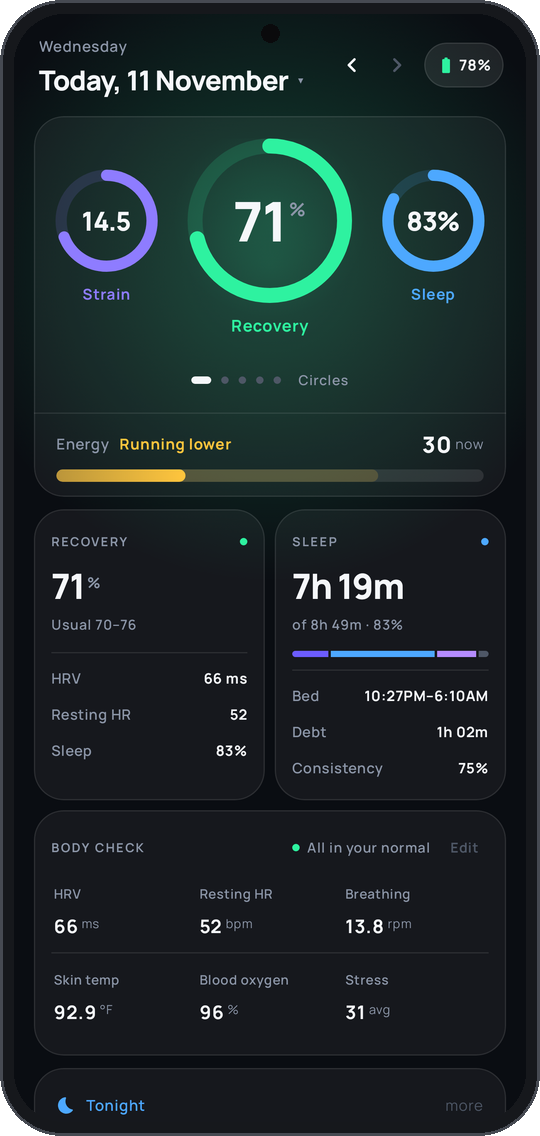
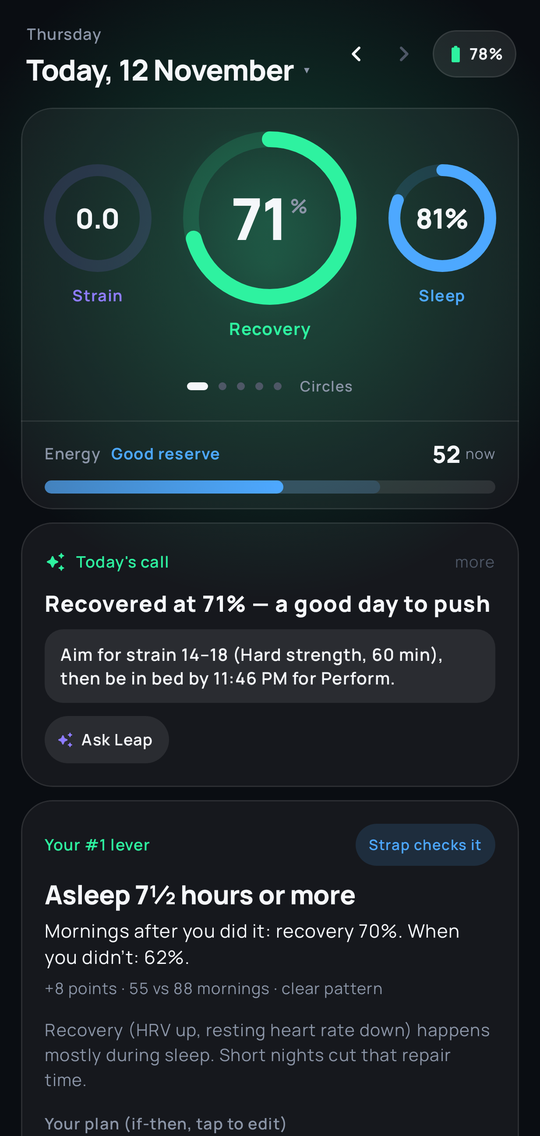
Leap 0.2.0: focus habit, weekly review, lessons

diff --git a/README.md b/README.md
@@ -19,26 +19,35 @@
 | 🔵 **Sleep** | what you slept vs. what you needed, sleep debt, stages, consistency |
 | 🟣 **Strain** 0–21 | minute-by-minute heart rate, plus every workout |
 
+Then it helps you **change one habit at a time**: it finds the habit that moves *your* recovery the most, turns it into a simple plan, checks it each night, and shows you the payoff on your own numbers.
+
 No account. No subscription. No cloud. Leap reads your data on your phone and keeps it there.
 
 <p align="center">
   <img src="docs/screens/today.png" width="24%" alt="Today">
+  <img src="docs/screens/focus_lever.png" width="24%" alt="Your #1 lever">
+  <img src="docs/screens/focus_active.png" width="24%" alt="Focus habit">
   <img src="docs/screens/live_now.png" width="24%" alt="Live heart rate">
-  <img src="docs/screens/calendar_black.png" width="24%" alt="Calendar">
-  <img src="docs/screens/today_calm.png" width="24%" alt="Calm mode">
 </p>
 <p align="center">
+  <img src="docs/screens/today_calm.png" width="24%" alt="Calm mode">
+  <img src="docs/screens/calendar_black.png" width="24%" alt="Calendar">
   <img src="docs/screens/trends.png" width="24%" alt="Trends">
-  <img src="docs/screens/hero_tide.png" width="24%" alt="Energy tide">
-  <img src="docs/screens/strap.png" width="24%" alt="Strap">
   <img src="docs/screens/space_white.png" width="24%" alt="Space white theme">
 </p>
 <p align="center"><sub>Screens show made-up demo data.</sub></p>
 
 ## Features
 
+**Change one habit at a time** (new in 0.2)
+- **Your #1 lever**: Leap compares your own nights and finds what lines up best with a good recovery (for example "asleep 7½ hours or more: 70% vs 58%")
+- **One if-then plan** ("When it's 9:45 PM, I head to bed"), one quiet nudge at that time, and a nightly check. The strap checks sleep habits by itself
+- **The payoff on your numbers**: recovery after the nights you did it vs the nights you didn't
+- **Weekly review**: three strong weeks and the habit "graduates"; a hard week makes the plan smaller, not you a failure. No streaks, no shame: "never miss twice"
+- **1-minute lessons**: what your most unusual number today means, what moves it, and one thing to try
+
 **Every day**
-- **Today**: three rings, a morning brief and one call for the day ("push", "steady" or "recover")
+- **Today**: three rings and one call for the day ("push", "steady" or "recover") with a strain target and a session; if Leap holds you back, it says why
 - **Pick your tiles**: choose which body numbers show (HRV, resting HR, breathing, skin temp, blood oxygen, steps, sleep debt…)
 - **Calm mode**: only your rings and one next step. Built to cut down on compulsive checking
 - **Live heart rate**: a beating bpm pill on every screen while Leap is open, and a Live page with zone, calories per minute, energy and more
@@ -59,7 +68,7 @@ No account. No subscription. No cloud. Leap reads your data on your phone and ke
 - Experiments: test one change (say, magnesium) on balanced on/off days
 - Weekly report, Trends you can scrub with a finger, Leap Age
 - **Build your own score** from 11 inputs, and check whether it means anything
-- Optional AI coach (Claude, ChatGPT or Gemini) with your own key
+- Optional AI coach (Claude, ChatGPT or Gemini) with your own key: one tap from Today, knows today's call and your focus habit
 
 **Health extras**
 - Overnight blood oxygen and finger-oximeter spot checks
